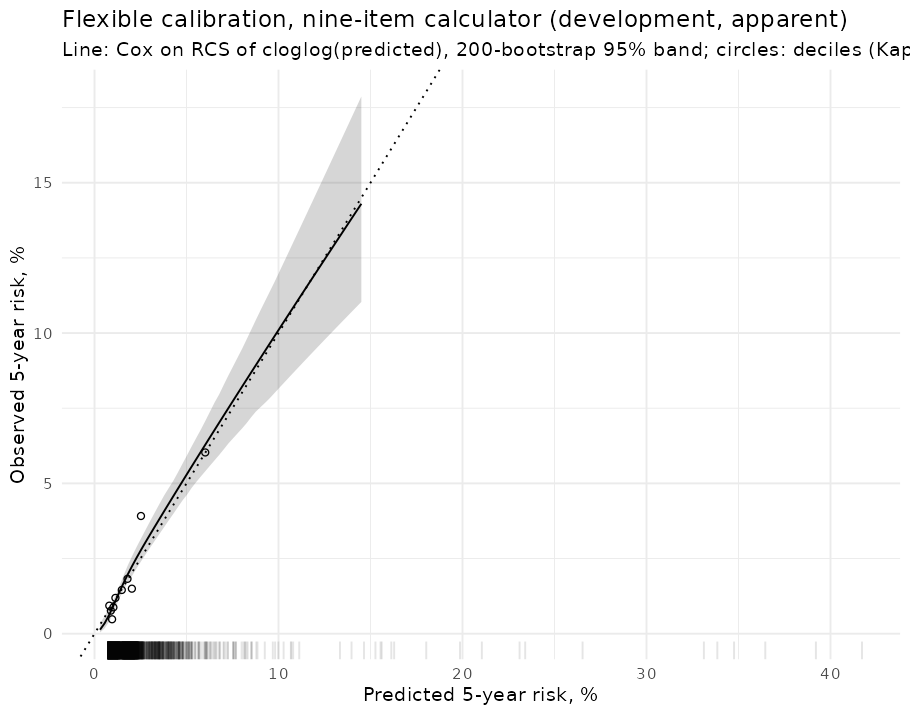
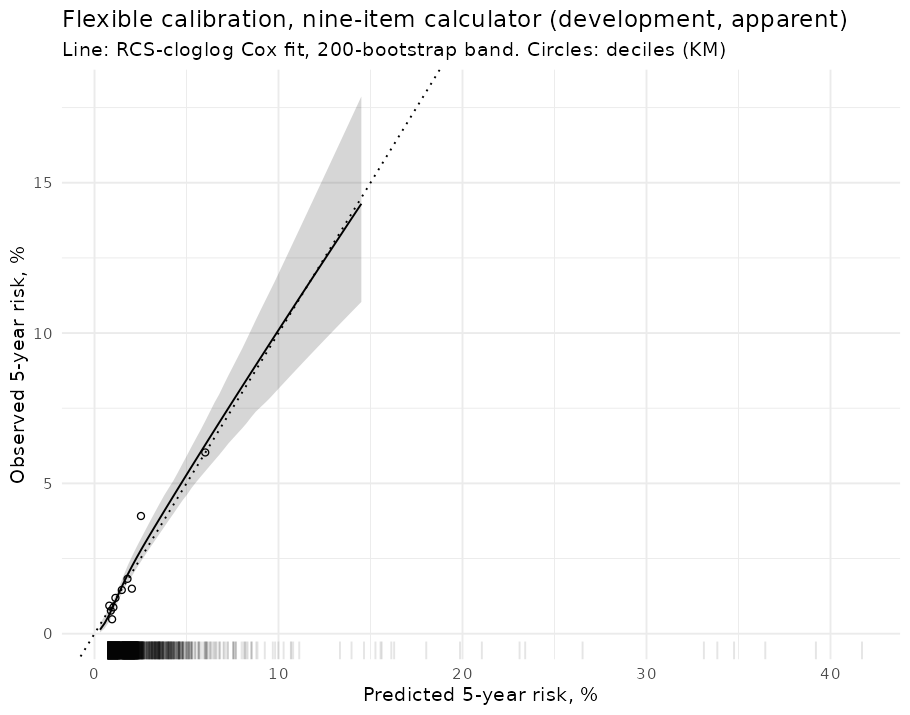
Audit: refreshed A08 outputs from clean re-run; A09 output
Claude-Session: https://claude.ai/code/session_01RSnjqJ9Md3LfwsBjAt9cTq

Changed region(s): [[0.1231, 0.0615, 1.0, 0.0923]]

diff --git a/reanalysis/audit/output/A09_temporal_validation.md b/reanalysis/audit/output/A09_temporal_validation.md
@@ -1,0 +1,80 @@
+# A09 Temporal validation
+
+Generated by `audit/R/A09_temporal_validation.R` on 2026-10-23 19:19. Development sample definition identical to `R/16_calculator_model.R:6`.
+
+### A09a_temporal_reproduction
+
+Temporal validation of the nine-item model refitted on anchors before 2023 (unshrunk, as in R/16_calculator_model.R:22–28). Reported: C 0.695, slope 0.90, O/E 1.56.
+
+| measure | value |
+|---|---|
+| development (anchor < 2023): women / strokes | 11,396 / 226 |
+| validation (anchor ≥ 2023): women / strokes | 12,610 / 119 |
+| validation: maximum follow-up, years | 3.72 |
+| validation: women followed ≥ 3 years | 1,439 |
+| validation: strokes within 3 years | 119 |
+| C at 3 years (95% CI) | 0.695 (0.644–0.746) |
+| calibration slope at 3 years (95% CI) | 0.90 (0.72–1.09) |
+| O/E 3-year, KM / mean predicted (R/16 method) (95% CI) | 1.56 (1.23–1.89) |
+| O/E 3-year, expected counts (95% CI) | 1.44 (1.19–1.73) |
+| mean predicted 3-year risk, % | 1.063 |
+| observed KM 3-year risk, % (95% CI) | 1.66 (1.30–2.01) |
+
+Five-year predictions were never evaluated temporally: maximum follow-up in the validation set is 3.72 years and 1439 women reached 3 years.
+
+### A09b_independence
+
+Was the 2023+ validation sample independent of development decisions?
+
+| item | finding |
+|---|---|
+| predictor set chosen using data that include the validation years | yes — the nine predictors were fixed after fitting the 14-predictor model on all 24,006 women (R/15, R/16) |
+| points (and therefore which predictors carry points) derived on the full sample | yes (R/15_risk_model.R:237–252) |
+| shrinkage factor estimated on the full sample | yes; R/16 temporal predictions are unshrunk |
+| temporal model in R/16 is a refit on <2023 data, not the published coefficients | yes — it validates the procedure, not the exact published equation |
+| full-process temporal validation: predictors selected on <2023 data only | htn, dm, cad, migraine_any, ckd_pre, haemoglobinopathy, estrogen, age, bmi5, hb_def |
+|   C at 3 years | 0.676 (0.623–0.728) |
+|   calibration slope | 0.84 (0.65–1.03) |
+|   O/E 3-year, expected counts | 1.44 (1.20–1.73) |
+
+Published equation (all-data fit, shrinkage applied, 3-year baseline from the all-data fit) applied to the 2023+ women — NOT independent: C 0.714, O/E (KM/mean) 1.36 (1.07–1.65).
+
+### A09c_rates_by_time_since_anchor
+
+Stroke rate per 1,000 person-years by time since anchor and anchor period
+
+| window | period | strokes | person_years | rate |
+|---|---|---|---|---|
+| 0–30 days | anchor < 2023 | 19 | 932 | 20.38 (12.27–31.83) |
+| 0–30 days | anchor ≥ 2023 | 23 | 1,024 | 22.46 (14.23–33.69) |
+| 1–3 years | anchor < 2023 | 63 | 21,466 | 2.93 (2.26–3.75) |
+| 1–3 years | anchor ≥ 2023 | 44 | 8,937 | 4.92 (3.58–6.61) |
+| 31 days–1 year | anchor < 2023 | 46 | 10,225 | 4.50 (3.29–6.00) |
+| 31 days–1 year | anchor ≥ 2023 | 52 | 9,367 | 5.55 (4.15–7.28) |
+| >3 years | anchor < 2023 | 98 | 30,175 | 3.25 (2.64–3.96) |
+| >3 years | anchor ≥ 2023 | 0 | 480 | 0.00 (0.00–7.69) |
+
+### A09d_oe_by_anchor_year
+
+O/E (expected counts, 3-year) by anchor year within the validation set
+
+| anchor_years | women | strokes_3y | expected | oe |
+|---|---|---|---|---|
+| 2023 | 2,843 | 41 | 28.9 | 1.42 (1.02–1.92) |
+| 2024 | 3,327 | 34 | 25.5 | 1.33 (0.92–1.86) |
+| 2025–2026 | 6,440 | 44 | 28.1 | 1.57 (1.14–2.10) |
+
+Apparent O/E in the development period itself (expected counts, 3-year): 1.00 (0.83–1.19).
+
+### A09e_temporal_model_comparison
+
+All models refitted on anchors < 2023 and evaluated on ≥ 2023 at 3 years. The published points were derived on all data and are therefore not independent.
+
+| model | c_3y | slope | oe_expected_counts | ipa_3y |
+|---|---|---|---|---|
+| nine_item | 0.695 (0.644–0.746) | 0.90 (0.72–1.09) | 1.44 (1.19–1.73) | 1.04% |
+| fourteen | 0.665 (0.611–0.719) | 0.82 (0.63–1.01) | 1.42 (1.17–1.70) | 0.76% |
+| conventional | 0.580 (0.516–0.643) | 0.68 (0.45–0.91) | 1.43 (1.18–1.71) | -0.09% |
+| conventional_plus_medhack | 0.671 (0.618–0.724) | 0.82 (0.64–1.01) | 1.44 (1.19–1.72) | 0.74% |
+| points_published | 0.702 (0.654–0.751) |  |  |  |
+

diff --git a/reanalysis/audit/output/A08_internal_validation.md b/reanalysis/audit/output/A08_internal_validation.md
@@ -35,3 +35,65 @@ How often each candidate received non-zero points across 200 bootstrap resamples
 | estrogen | 91.5 | TRUE |
 | hb_def | 100.0 | TRUE |
 
+### A08c_model_comparison_dev
+
+Paired bootstrap (500 resamples) differences in apparent C; difference in optimism-corrected C from A08a. LR for nine vs fourteen tests the five dropped predictors jointly.
+
+| comparison | delta_apparent_c_95ci | delta_optimism_corrected_c | likelihood_ratio |
+|---|---|---|---|
+| nine-item − fourteen | -0.0012 (-0.0068 to 0.0040) | 0.0046 | χ² 2.1, df 5, P 0.839 |
+| nine-item − conventional | 0.0566 (0.0295 to 0.0812) | 0.0610 | not nested |
+| conventional + MED-HACK items − conventional | 0.0580 (0.0328 to 0.0811) | 0.0589 | χ² 65.9, df 4, P <0.001 |
+
+### A08d_calibration_dev
+
+Calibration of the published nine-item calculator in the development data (apparent; shrinkage applied). The 3-year risk uses the nine-item baseline hazard at 3 years.
+
+| measure | value |
+|---|---|
+| O/E, expected counts, 5 y (95% CI) | 1.02 (0.91–1.14) |
+| O/E, expected counts, 3 y | 1.02 (0.90–1.16) |
+| O/E, KM risk / mean predicted, 5 y | 1.07 (0.94–1.20) |
+| O/E, KM risk / mean predicted, 3 y | 1.05 (0.92–1.18) |
+| calibration slope on cloglog(predicted 5-y risk) | 1.03 (0.91–1.15) |
+| ICI, 5 y (mean /observed − predicted/, percentage points) | 0.157 |
+| E50 / E90, 5 y (percentage points) | 0.150 / 0.271 |
+| ICI, 3 y | 0.118 |
+
+### A08e_calibration_risk_bands
+
+Calibration within the calculator's interpretation bands (5-year, development, apparent)
+
+| calculator_band | women | strokes | mean_predicted_pct | observed_km_pct |
+|---|---|---|---|---|
+| <1% (below average) | 7,580 | 39 | 0.89 | 0.72 (0.46–0.99) |
+| 1–2.5% (around average) | 13,032 | 157 | 1.60 | 1.66 (1.36–1.95) |
+| 2.5–5% (elevated) | 2,472 | 81 | 3.54 | 4.17 (3.18–5.16) |
+| 5–10% (high) | 699 | 35 | 6.74 | 6.95 (4.44–9.38) |
+| ≥10% (high, beyond p99 when >9.8%) | 223 | 33 | 17.03 | 16.22 (10.26–21.77) |
+
+### A08f_brier
+
+IPCW Brier score at 5 years (apparent) and index of prediction accuracy (IPA = 1 − Brier/Brier of the Kaplan-Meier null model)
+
+| model | brier_5y | null_brier_5y | ipa_5y |
+|---|---|---|---|
+| nine_item_calculator | 0.01913 | 0.01952 | 2.02% |
+| points_table | 0.01917 | 0.01952 | 1.82% |
+| fourteen | 0.01912 | 0.01952 | 2.04% |
+| conventional | 0.01919 | 0.01952 | 1.70% |
+
+### A08g_decision_curve_dev
+
+Net benefit at 5 years (development, apparent; deaths censored). Last column: nine-item net benefit minus the better of treat-all and treat-none, with 200-bootstrap 95% CI. Net benefit 0.001 = 1 additional true-positive per 1,000 women at no extra false positives.
+
+| threshold_pct | treat_all | nine_item | points_table | fourteen | pct_flagged_nine_item | nine_item_minus_best_default_95ci |
+|---|---|---|---|---|---|---|
+| 1 | 0.01002 | 0.01061 | 0.00994 | 0.01042 | 68.4 | 0.00056 (-0.00041 to 0.00137) |
+| 1.5 | 0.00499 | 0.00773 | 0.00751 | 0.00762 | 45.2 | 0.00273 (0.00126 to 0.00387) |
+| 2 | -0.00008 | 0.00603 | 0.00548 | 0.00592 | 26.0 | 0.00558 (0.00411 to 0.00676) |
+| 3 | -0.01039 | 0.00345 | 0.00319 | 0.00363 | 11.3 | 0.00348 (0.00232 to 0.00451) |
+| 5 | -0.03166 | 0.00171 | 0.00132 | 0.00188 | 3.8 | 0.00173 (0.00088 to 0.00273) |
+| 7.5 | -0.05955 | 0.00118 | 0.00087 | 0.00115 | 1.8 | 0.00123 (0.00053 to 0.00202) |
+| 10 | -0.08898 | 0.00064 | 0.00055 | 0.00064 | 0.9 | 0.00066 (0.00007 to 0.00122) |
+

diff --git a/reanalysis/audit/output/audit_run_log.md b/reanalysis/audit/output/audit_run_log.md
@@ -64,3 +64,15 @@
 ## A08 Internal validation, calibration, model comparison and decision curves — `audit/R/A08_internal_validation.R` (2026-10-23 19:15)
 - table `A08a_bootstrap_validation` (5 rows)
 - table `A08b_selection_stability` (14 rows)
+- table `A08c_model_comparison_dev` (3 rows)
+- table `A08d_calibration_dev` (8 rows)
+- table `A08e_calibration_risk_bands` (5 rows)
+- table `A08f_brier` (4 rows)
+- table `A08g_decision_curve_dev` (7 rows)
+
+## A09 Temporal validation — `audit/R/A09_temporal_validation.R` (2026-10-23 19:19)
+- table `A09a_temporal_reproduction` (11 rows)
+- table `A09b_independence` (8 rows)
+- table `A09c_rates_by_time_since_anchor` (8 rows)
+- table `A09d_oe_by_anchor_year` (3 rows)
+- table `A09e_temporal_model_comparison` (5 rows)
